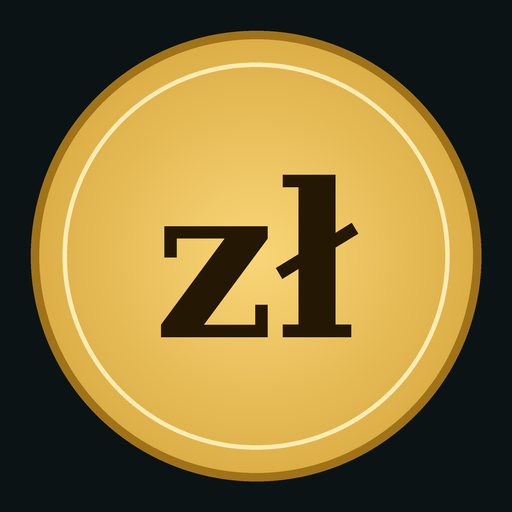
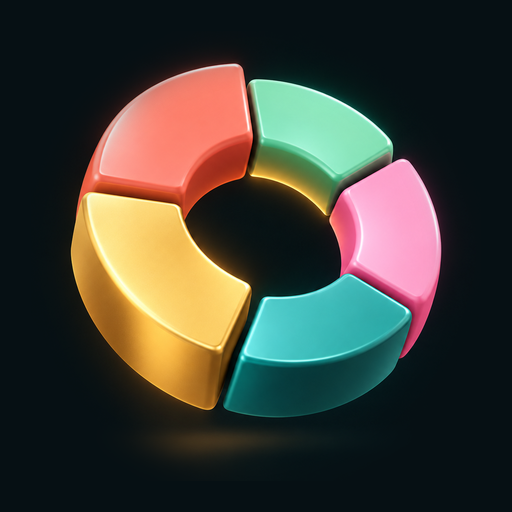
Новый логотип: объёмное кольцо вместо монетки
Иконки сайта, айфона и APK, логотип в шапке приложения.

Claude-Session: https://claude.ai/code/session_01QeKCnxzoFYHEDAsP8Mapp3

diff --git a/index.html b/index.html
@@ -87,6 +87,7 @@ button{font:inherit;color:inherit}
 /* Header */
 .top{display:flex;align-items:center;gap:16px;margin-bottom:18px}
 .coin-wrap{perspective:420px;flex:none}
+.logo{width:54px;height:54px;flex:none;border-radius:14px;display:block;box-shadow:0 0 0 1px rgba(230,188,94,.18),0 8px 22px -8px rgba(0,0,0,.7)}
 .coin{width:54px;height:54px;position:relative;transform-style:preserve-3d;animation:coinspin 8s linear infinite}
 .coin .face{
   position:absolute;inset:0;border-radius:50%;display:grid;place-items:center;
@@ -473,6 +474,7 @@ label.btn-sm{display:inline-block}
   html body[data-tab="history"] .toast{bottom:calc(var(--tabbar-h, 60px) + 14px)}
   .top{margin-bottom:12px;gap:12px}
   .coin{width:40px;height:40px}
+  .logo{width:42px;height:42px;border-radius:11px}
   .coin .face{font-size:11px}
   .brand h1{font-size:26px}
   body.has-data .brand > p:first-of-type{display:none}
@@ -520,9 +522,7 @@ label.btn-sm{display:inline-block}
 
 <div class="page">
   <header class="top">
-    <div class="coin-wrap" aria-hidden="true">
-      <div class="coin"><div class="face">zł</div><div class="face back">PLN</div></div>
-    </div>
[1 lines of base64/hex data omitted]
     <div class="brand">
       <h1>Złoty <span>Plan</span></h1>
       <p>Вводишь доходы и обязательные платежи, остальное раскладывается по конвертам по ценам Польши на октябрь 2026. Траты записываешь кнопкой внизу, цели и редкие траты живут во вкладке «Цели».</p>

diff --git a/sw.js b/sw.js
@@ -1,5 +1,5 @@
 // Złoty Plan offline cache: the page is fetched fresh when online and served from cache offline.
-var CACHE = 'zloty-v7';
+var CACHE = 'zloty-v8';
 var CORE = ['./', './index.html', './manifest.webmanifest', './icon-180.png', './icon-192.png', './icon-512.png'];
 self.addEventListener('install', function(e){ e.waitUntil(caches.open(CACHE).then(function(c){ return c.addAll(CORE); })); self.skipWaiting(); });
 self.addEventListener('activate', function(e){ e.waitUntil(caches.keys().then(function(ks){ return Promise.all(ks.filter(function(k){ return k !== CACHE; }).map(function(k){ return caches.delete(k); })); })); self.clients.claim(); });

diff --git a/app/build.py b/app/build.py
@@ -7,7 +7,7 @@ import os, re, sys, shutil, urllib.request
 
 HERE = os.path.dirname(os.path.abspath(__file__))
 CHROME_UA = 'Mozilla/5.0 (Linux; Android 14) AppleWebKit/537.36 (KHTML, like Gecko) Chrome/124.0 Mobile Safari/537.36'
-BG = (12, 19, 21)
+BG = (6, 16, 20)
 
 
 def get(url, ua=CHROME_UA):
@@ -65,7 +65,7 @@ def patch_android():
     bgxml = os.path.join(res, 'values', 'ic_launcher_background.xml')
     if os.path.exists(bgxml):
         txt = open(bgxml, encoding='utf-8').read()
-        open(bgxml, 'w', encoding='utf-8').write(re.sub(r'#[0-9A-Fa-f]{6,8}', '#0C1315', txt))
+        open(bgxml, 'w', encoding='utf-8').write(re.sub(r'#[0-9A-Fa-f]{6,8}', '#061014', txt))
     splashes = 0
     for root, _, files in os.walk(res):
         for fn in files:
